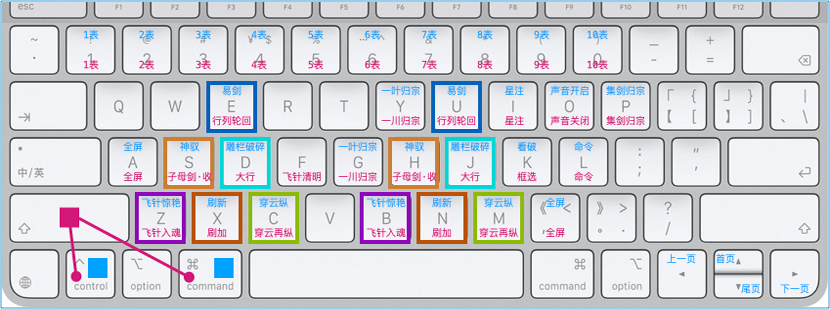
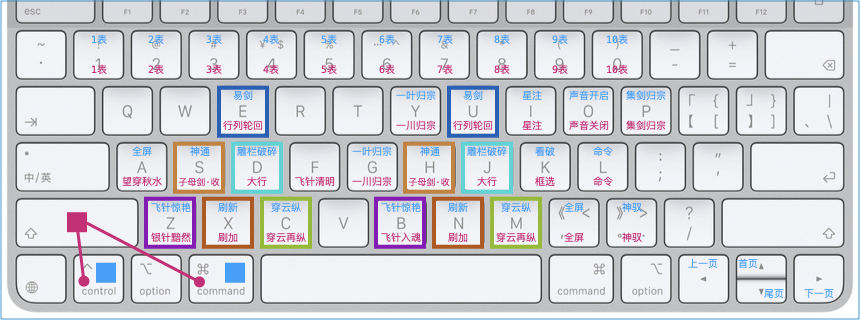
20250819 针法加强，战法成熟 (#6)

diff --git a/root/wugong/shenyiduoxinzhao/BEST.md b/root/wugong/shenyiduoxinzhao/BEST.md
@@ -67,59 +67,61 @@
 
 神意夺心爪=SEDXZ、神意夺心超爪=SEDXCZ，主键区的几个键，经常用的
 
-区域  |招式      |说明       |快捷键           |这样记                |备用键
-:----:|:---------|:----------|:----------------|:---------------------|:--------:
-神 S  |神驭      |神驭开启   |🎹 + S          |神驭的神 Shén S       |`S => H`
-神 S  |子剑东流  |子母剑·收  |🎹 + Shift + S  |收剑的收 Shōu S       |`S => H`
-意 E  |基本功    |易剑       |🎹 + E          |Excel的易 E           |`E => U`
-意 E  |基本功    |行列轮回   |🎹 + Shift + E  |Excel的易 E           |`E => U`
-夺 D  |雕栏破碎  |           |🎹 + D          |雕栏的雕 Diāo D       |`D => J`
-夺 D  |基本功    |大行       |🎹 + Shift + D  |大行的大 Dà D         |`D => J`
-心 X  |基本功    |刷新       |🎹 + X          |X 就像台词「叉出去」  |`X => N`
-心 X  |基本功    |刷加       |🎹 + Shift + X  |X 叉掉数据=刷掉数据   |`X => N`
-超 C  |穿云纵    |           |🎹 + C          |穿云的穿 Chuān C      |`C => M`
-超 C  |穿云再纵  |           |🎹 + Shift + C  |穿云的穿 Chuān C      |`C => M`
-爪 Z  |飞针惊艳  |           |🎹 + Z          |飞针的针 Zhēn Z       |`Z => B`
-爪 Z  |飞针入魂  |           |🎹 + Shift + Z  |飞针的针 Zhēn Z       |`Z => B`
-编外  |基本功    |全屏       |🎹 + A          |All A                 |`A => ,`
-编外  |基本功    |全屏       |🎹 + Shift + A  |All A                 |`A => ,`
-编外  |飞针清明  |           |🎹 + Shift + F  |飞针的飞 Fēi F        |
-编外  |一叶归宗  |           |🎹 + G          |归宗的归 Guī G        |`G => Y`
-编外  |一川归宗  |           |🎹 + Shift + G  |归宗的归 Guī G        |`G => Y`
-编外  |基本功    |星注       |🎹 + I          |i=星号注释            |
-编外  |基本功    |星注       |🎹 + Shift + I  |i=星号注释            |
-编外  |基本功    |看破       |🎹 + K          |看破的看 Kàn K        |
-编外  |基本功    |框选       |🎹 + Shift + K  |框选的框 Kuang K      |
-编外  |基本功    |声音开启   |🎹 + O          |🤫嘘，嘴形是O        |
-编外  |基本功    |声音关闭   |🎹 + Shift + O  |🤫嘘，嘴形是O        |
-编外  |基本功    |命令       |🎹 + L          |命令的令 Lìng L       |
-编外  |基本功    |命令       |🎹 + Shift + L  |命令的令 Lìng L       |
-编外  |集剑归宗  |           |🎹 + P          |                      |
-编外  |集剑归宗  |           |🎹 + Shift + P  |                      |
-编外  |基本功    |上一页     |🎹 + ⇦         |                      |
-编外  |基本功    |下一页     |🎹 + ⇨         |                      |
-编外  |基本功    |首页       |🎹 + ⇧         |                      |
-编外  |基本功    |尾页       |🎹 + ⇩         |                      |
-编外  |基本功    |1表        |🎹 + 1          |1表                   |
-编外  |基本功    |1表        |🎹 + Shift + 1  |1表                   |
-编外  |基本功    |2表        |🎹 + 2          |2表                   |
-编外  |基本功    |2表        |🎹 + Shift + 2  |2表                   |
-编外  |基本功    |3表        |🎹 + 3          |3表                   |
-编外  |基本功    |3表        |🎹 + Shift + 3  |3表                   |
-编外  |基本功    |4表        |🎹 + 4          |4表                   |
-编外  |基本功    |4表        |🎹 + Shift + 4  |4表                   |
-编外  |基本功    |5表        |🎹 + 5          |5表                   |
-编外  |基本功    |5表        |🎹 + Shift + 5  |5表                   |
-编外  |基本功    |6表        |🎹 + 6          |6表                   |
-编外  |基本功    |6表        |🎹 + Shift + 6  |6表                   |
-编外  |基本功    |7表        |🎹 + 7          |7表                   |
-编外  |基本功    |7表        |🎹 + Shift + 7  |7表                   |
-编外  |基本功    |8表        |🎹 + 8          |8表                   |
-编外  |基本功    |8表        |🎹 + Shift + 8  |8表                   |
-编外  |基本功    |9表        |🎹 + 9          |9表                   |
-编外  |基本功    |9表        |🎹 + Shift + 9  |9表                   |
-编外  |基本功    |10表       |🎹 + 0          |10表                  |
-编外  |基本功    |10表       |🎹 + Shift + 0  |10表                  |
+区域  |招式      |说明                  |快捷键           |这样记                |备用键
+:----:|:---------|:---------------------|:----------------|:---------------------|:--------:
+神 S  |神通      |弹指神通（飞针宝典）  |🎹 + S          |神通的神 Shén S       |`S => H`
+神 S  |子剑东流  |子母剑·收（莫言）     |🎹 + Shift + S  |收剑的收 Shōu S       |`S => H`
+意 E  |易剑      |基本功                |🎹 + E          |Excel的易 E           |`E => U`
+意 E  |行列轮回  |基本功                |🎹 + Shift + E  |Excel的易 E           |`E => U`
+夺 D  |雕栏破碎  |莫言                  |🎹 + D          |雕栏的雕 Diāo D       |`D => J`
+夺 D  |大行      |基本功                |🎹 + Shift + D  |大行的大 Dà D         |`D => J`
+心 X  |刷新      |基本功                |🎹 + X          |X 就像台词「叉出去」  |`X => N`
+心 X  |刷加      |基本功                |🎹 + Shift + X  |X 叉掉数据=刷掉数据   |`X => N`
+超 C  |穿云纵    |莫言                  |🎹 + C          |穿云的穿 Chuān C      |`C => M`
+超 C  |穿云再纵  |莫言                  |🎹 + Shift + C  |穿云的穿 Chuān C      |`C => M`
+爪 Z  |飞针惊艳  |飞针宝典              |🎹 + Z          |飞针的针 Zhēn Z       |`Z => B`
+爪 Z  |银针黯然  |飞针宝典              |🎹 + Shift + Z  |飞针的针 Zhēn Z       |`Z => B`
+编外  |全屏      |基本功                |🎹 + A          |All A                 |`A => ,`
+编外  |望穿秋水  |飞针宝典              |🎹 + Shift + A  |All A                 |`A => ,`
+编外  |飞针清明  |飞针宝典              |🎹 + Shift + F  |飞针的飞 Fēi F        |不常用
+编外  |一叶归宗  |百川归宗              |🎹 + G          |归宗的归 Guī G        |`G => Y`
+编外  |一川归宗  |百川归宗              |🎹 + Shift + G  |归宗的归 Guī G        |`G => Y`
+编外  |星注      |基本功                |🎹 + I          |i=星号注释            |不常用
+编外  |星注      |基本功                |🎹 + Shift + I  |i=星号注释            |不常用
+编外  |看破      |基本功                |🎹 + K          |看破的看 Kàn K        |不常用
+编外  |框选      |基本功                |🎹 + Shift + K  |框选的框 Kuang K      |不常用
+编外  |声音开启  |基本功                |🎹 + O          |🤫嘘，嘴形是O        |不常用
+编外  |声音关闭  |基本功                |🎹 + Shift + O  |🤫嘘，嘴形是O        |不常用
+编外  |命令      |基本功                |🎹 + L          |命令的令 Lìng L       |不常用
+编外  |命令      |基本功                |🎹 + Shift + L  |命令的令 Lìng L       |不常用
+编外  |神驭      |                      |🎹 + .          |                      |不常用
+编外  |神驭      |                      |🎹 + Shift + .  |                      |不常用
+编外  |集剑归宗  |百川归宗              |🎹 + P          |                      |不常用
+编外  |集剑归宗  |百川归宗              |🎹 + Shift + P  |                      |不常用
+编外  |上一页    |基本功                |🎹 + ⇦         |                      |
+编外  |下一页    |基本功                |🎹 + ⇨         |                      |
+编外  |首页      |基本功                |🎹 + ⇧         |                      |
+编外  |尾页      |基本功                |🎹 + ⇩         |                      |
+编外  |1表       |基本功                |🎹 + 1          |1表                   |
+编外  |1表       |基本功                |🎹 + Shift + 1  |1表                   |
+编外  |2表       |基本功                |🎹 + 2          |2表                   |
+编外  |2表       |基本功                |🎹 + Shift + 2  |2表                   |
+编外  |3表       |基本功                |🎹 + 3          |3表                   |
+编外  |3表       |基本功                |🎹 + Shift + 3  |3表                   |
+编外  |4表       |基本功                |🎹 + 4          |4表                   |不常用
+编外  |4表       |基本功                |🎹 + Shift + 4  |4表                   |不常用
+编外  |5表       |基本功                |🎹 + 5          |5表                   |不常用
+编外  |5表       |基本功                |🎹 + Shift + 5  |5表                   |不常用
+编外  |6表       |基本功                |🎹 + 6          |6表                   |不常用
+编外  |6表       |基本功                |🎹 + Shift + 6  |6表                   |不常用
+编外  |7表       |基本功                |🎹 + 7          |7表                   |不常用
+编外  |7表       |基本功                |🎹 + Shift + 7  |7表                   |不常用
+编外  |8表       |基本功                |🎹 + 8          |8表                   |不常用
+编外  |8表       |基本功                |🎹 + Shift + 8  |8表                   |不常用
+编外  |9表       |基本功                |🎹 + 9          |9表                   |不常用
+编外  |9表       |基本功                |🎹 + Shift + 9  |9表                   |不常用
+编外  |10表      |基本功                |🎹 + 0          |10表                  |不常用
+编外  |10表      |基本功                |🎹 + Shift + 0  |10表                  |不常用
 
 > 🎹 Windows 代表 Control， macOS 代表 Control 或 Command
 
@@ -147,12 +149,12 @@
     超级厉害，所以：神意夺心超爪
         神意夺心超爪=SEDXCZ
         🎹+键、🎹+Shift+键
-            S=神(Shén)驭、字母剑·收(Shōu)
+            S=神(Shén)通、字母剑·收(Shōu)
             E=Excel，易剑、行列轮回
             D=雕(Diāo)栏破碎、大(Dà)行
             X=新(Xīn)，刷新、刷加
             C=穿(Chuān)云纵、穿(Chuān)云再纵
-            Z=针(Zhēn)，飞针惊艳、飞针入魂
+            Z=针(Zhēn)，飞针惊艳、银针黯然
 
 记不住也没关系，随便按按试一试，反正你也按不坏，习惯了就记住了
 

diff --git a/root/help.md b/root/help.md
@@ -143,22 +143,23 @@ AI->东方神功： <br/>
 决定采用「武侠/武功」的方式去设计，那么设计灵感肯定是从作者自己看过的武侠中去找 <br/>
 我用闲暇时间，把我设计的这些武功，都巧妙的贯穿起来，也编了个小说：[《东方儿女情》][剧情]
 
-麦修行看过的武侠             |灵感来源      |发散思维  |麦修行新的武功设计
-:----------------------------|:-------------|:---------|:---------------------------
-《笑傲江湖II东方不败》 1992  |独孤九剑      |高维      |[九剑][]（[扶摇九剑][]）
-《笑傲江湖II东方不败》 1992  |葵花宝典      |上色      |[飞针][]（[飞针宝典][]）
-《新龙门客栈》 1992          |营救行动      |灵动      |[莫言][]
-《笑傲江湖II东方不败》 1992  |教主轻功      |驾驭      |[神驭][]
-《笑傲江湖II东方不败》 1992  |吸星大法      |获得      |[归宗][]（[百川归宗][]）
-《天龙八部》 1997            |凌波微步      |万行分页  |[万行][]（[御风万行][]）
-《天龙八部》 1997            |拈花指        |智能分页  |[幻叶][]（[幻叶指][]）
-《笑傲江湖》 1996            |黑木崖的电梯  |搜素约定  |[密语][]（[陈桥密语][]）
-《天龙八部》 1997            |六脉神剑      |颜色标签  |[六彩][]（[六彩神剑][]）
-《射雕英雄传》 1983          |郭靖射雕      |精致表单  |[箭术][]（[林家箭术][]）
-《射雕英雄传》 1983          |九阴白骨爪    |快捷键    |[神意][]（[神意夺心爪][]）
-《笑傲江湖II东方不败》 1992  |服部千军      |数据历史  |[千依][]（[千依子剑][]）
-《六指琴魔》 1994            |八音穿心      |声音      |[八音][]（[八音圣心][]）
-《太极张三丰》 1993          |参悟太极      |主题      |[道意][]（[道意璀粲][]）
+麦修行看过的武侠             |灵感来源              |发散思维  |麦修行新的武功设计
+:----------------------------|:---------------------|:---------|:---------------------------
+《笑傲江湖II东方不败》 1992  |独孤九剑              |高维      |[九剑][]（[扶摇九剑][]）
+《笑傲江湖II东方不败》 1992  |葵花宝典              |上色      |[飞针][]（[飞针宝典][]）
+《神雕侠侣》 1995            |冰魄银针、黯然销魂掌  |上色      |[飞针][]（[飞针宝典][]）
+《新龙门客栈》 1992          |营救行动              |灵动      |[莫言][]
+《笑傲江湖II东方不败》 1992  |教主轻功              |驾驭      |[神驭][]
+《笑傲江湖II东方不败》 1992  |吸星大法              |获得      |[归宗][]（[百川归宗][]）
+《天龙八部》 1997            |凌波微步              |万行分页  |[万行][]（[御风万行][]）
+《天龙八部》 1997            |拈花指                |智能分页  |[幻叶][]（[幻叶指][]）
+《笑傲江湖》 1996            |黑木崖的电梯          |搜素约定  |[密语][]（[陈桥密语][]）
+《天龙八部》 1997            |六脉神剑              |颜色标签  |[六彩][]（[六彩神剑][]）
+《射雕英雄传》 1983          |郭靖射雕              |精致表单  |[箭术][]（[林家箭术][]）
+《射雕英雄传》 1983          |九阴白骨爪            |快捷键    |[神意][]（[神意夺心爪][]）
+《笑傲江湖II东方不败》 1992  |服部千军              |数据历史  |[千依][]（[千依子剑][]）
+《六指琴魔》 1994            |八音穿心              |声音      |[八音][]（[八音圣心][]）
+《太极张三丰》 1993          |参悟太极              |主题      |[道意][]（[道意璀粲][]）
 
 [九剑]:             ./wugong/fuyaojiujian/BEST.md
 [扶摇九剑]:         ./wugong/fuyaojiujian/BEST.md

diff --git a/root/wugong/feizhenbaodian/BEST.md b/root/wugong/feizhenbaodian/BEST.md
@@ -64,11 +64,19 @@
 
 ## 飞针惊艳
 
-![](./static/02-feizhenjingyan.gif "认证机构信息管理系统 飞针清明")
+![](./static/02-feizhenjingyan.gif "认证机构信息管理系统 飞针惊艳")
 
-## 飞针入魂
+## 银针黯然
 
-![](./static/03-feizhenruhun.gif "认证机构信息管理系统 飞针清明")
+待补充
+
+## 望穿秋水
+
+待补充
+
+## 弹指神通
+
+待补充
 
 ***
 
@@ -93,32 +101,35 @@
 
 ## 术语对照
 
-武学术语  |系统术语  |说明
-:---------|:---------|:-----------------------------------
-飞针      |上色      |
-飞针清明  |层彩      |层次分明之彩
-飞针惊艳  |格彩      |单元格之彩
-飞针入魂  |重彩      |重点显示之彩（弱化次要、突出重点）
+武学术语  |系统术语    |说明
+:---------|:-----------|:--------------------------------------------
+飞针      |上色        |
+飞针清明  |层次        |层次分明
+飞针惊艳  |格彩        |单元格之彩
+银针黯然  |次要黯然    |单元格之黯（弱化次要、突出重点）
+望穿秋水  |看清黯然    |双重辅助（银针黯然的辅助 + 弹指神通的辅助）
+弹指神通  |未变改黯然  |未变改之黯（万般变幻、心中有数）
 
 ## 作者笔记
 
 ```text
-为什么简称：飞针
-    因为多数情况用的都是：「飞针惊艳」这一招
-    这一招的核心是凸显一些单元格（点）的颜色
-    感觉就像用针去标记这些单元格（点）的颜色
-
-教主附身，会用飞针：
-    飞针清明（层次上色、头脑清晰，默认开启，看清高维层次）
+武侠角色附身，会用飞针：
+    飞针清明（层次分明）
         随便打出两针、探探路数...
-    飞针惊艳（主要上色、彩色数据，默认开启，看到第二信息）
-        蓄意打出飞针、一般攻击...
-    飞针入魂（次要上色、突出重点，默认关闭、弱化次要、突出重点）
-        阴毒打出飞针、要人性命...
+    飞针惊艳（单元格之彩）
+        蓄力打出飞针、普通攻击...
+    银针黯然（单元格之黯）
+        打出带毒银针、要人性命...
+    望穿秋水（双重辅助）
+        通过飞针打开东西、想要看清前方事物...
+    弹指神通（未变改之黯）
+        通过弹指射出飞针、弹指之间即得神通...
 ```
 
 招式      |首拼音首字母     |快捷键（神意夺心爪）
 :---------|:----------------|:-------------------------------------------
 飞针清明  |飞针的飞 Fēi F   |Control + Shift + F 、 Command + Shift + F
 飞针惊艳  |飞针的针 Zhēn Z  |Control + Z 、 Command + Z
-飞针入魂  |飞针的针 Zhēn Z  |Control + Shift + Z 、 Command + Shift + Z
+银针黯然  |银针的针 Zhēn Z  |Control + Shift + Z 、 Command + Shift + Z
+望穿秋水  |                 |Control + Shift + A 、 Command + Shift + A
+弹指神通  |神通的神 Shén S  |Control + S 、 Command + S

diff --git a/root/zhanfa/dongfangzhanfa/BEST.md b/root/zhanfa/dongfangzhanfa/BEST.md
@@ -1,0 +1,53 @@
+![](../../static/ca3w.png "ca3w 认证机构管理系统")
+
+以东方文化为底蕴缔造轻奢认证机构管理系统 <br/>
+适配高网速、符合时代，高维、上色、灵动 <br/>
+主理人：麦修行（大江东去，唯我修行）
+
+[麦修行][]&nbsp;&nbsp;&nbsp;&nbsp;[AI->东方神功][东方神功]&nbsp;[剧情][]&nbsp;[人物][]&nbsp;&nbsp;&nbsp;&nbsp;[原理][]&nbsp;&nbsp;[规则][]&nbsp;&nbsp;[价格][]&nbsp;&nbsp;[购买][]&nbsp;&nbsp;&nbsp;&nbsp;[Excel-Email][]&nbsp;[大模型-符文][]&nbsp;&nbsp;&nbsp;&nbsp;[发展历程][]
+
+[麦修行]: https://github.com/ca3w/BEST
+[东方神功]: https://github.com/ca3w/ai-dongfangshengong
+[剧情]: https://github.com/ca3w/dongfangernvqing/blob/main/root/BEST.md
+[人物]: https://github.com/ca3w/dongfangernvqing/blob/main/root/renwu.md
+[原理]: https://github.com/ca3w/key
+[规则]: https://github.com/ca3w/rule
+[价格]: https://github.com/ca3w/pricing
+[购买]: https://github.com/ca3w/howtobuy
+[Excel-Email]: https://github.com/ca3w/excel-email
+[大模型-符文]: https://github.com/ca3w/largemodel-rune
+[发展历程]: https://github.com/ca3w/development
+
+***
+
+[神功][]：&nbsp;[九剑][]&nbsp;&nbsp;&nbsp;[飞针][]&nbsp;&nbsp;&nbsp;[莫言][]&nbsp;&nbsp;&nbsp;[神驭][]&nbsp;&nbsp;&nbsp;[归宗][]&nbsp;&nbsp;&nbsp;[万行][]&nbsp;&nbsp;&nbsp;[幻叶][]&nbsp;&nbsp;&nbsp;[密语][]&nbsp;&nbsp;&nbsp;[六彩][]&nbsp;&nbsp;&nbsp;[箭术][]&nbsp;&nbsp;&nbsp;[神意][]&nbsp;&nbsp;&nbsp;[千依][]&nbsp;&nbsp;&nbsp;[八音][]&nbsp;&nbsp;&nbsp;[道意][]&nbsp;&nbsp;&nbsp;|&nbsp;&nbsp;&nbsp;[兵法][]：&nbsp;[关中][]&nbsp;&nbsp;&nbsp;[治粟][]&nbsp;&nbsp;&nbsp;|&nbsp;&nbsp;&nbsp;[阵法][]：&nbsp;[清上][]
+
+[神功]: https://github.com/ca3w/ai-dongfangshengong
+
+[九剑]: ../../wugong/fuyaojiujian/BEST.md
+[飞针]: ../../wugong/feizhenbaodian/BEST.md
+[莫言]: ../../wugong/moyan/BEST.md
+[神驭]: ../../wugong/shenyu/BEST.md
+[归宗]: ../../wugong/baichuanguizong/BEST.md
+[万行]: ../../wugong/yufengwanxing/BEST.md
+[幻叶]: ../../wugong/huanyezhi/BEST.md
+[密语]: ../../wugong/chenqiaomiyu/BEST.md
+[六彩]: ../../wugong/liucaishenjian/BEST.md
+[箭术]: ../../wugong/linjiajianshu/BEST.md
+[神意]: ../../wugong/shenyiduoxinzhao/BEST.md
+[千依]: ../../wugong/qianyizijian/BEST.md
+[八音]: ../../wugong/bayinshengxin/BEST.md
+[道意]: ../../wugong/daoyicuican/BEST.md
+
+[兵法]: https://github.com/ca3w/ai-dongfangshengong#兵法目录
+
+[关中]: ../../bingfa/guanzhongzhanfa/BEST.md
+[治粟]: ../../bingfa/zhisubingfa/BEST.md
+
+[阵法]: https://github.com/ca3w/ai-dongfangshengong#阵法目录
+
+[清上]: ../../zhenfa/qingshangbeidouzhen/BEST.md
+
+# 东方战法
+
+待补充

diff --git a/README.md b/README.md
@@ -39,7 +39,7 @@
 分类        |武功              |五绝          |招式                                                      |点评&nbsp;&nbsp;&nbsp;&nbsp;&nbsp;&nbsp;&nbsp;&nbsp;&nbsp;&nbsp;&nbsp;&nbsp;&nbsp;&nbsp;&nbsp;&nbsp;&nbsp;&nbsp;&nbsp;&nbsp;
 -----------:|:-----------------|:-------------|:---------------------------------------------------------|:----------------
 剑法        |[扶摇九剑][]      |[南扶][]      |[纵剑式][]、[横剑式][]、[落剑式][]、[荡剑式][]            |九剑高维 · 美好
-飞针        |[飞针宝典][]      |[西花][]      |[飞针清明][]、[飞针惊艳][]、[飞针入魂][]                  |飞针上色 · 惊艳
+飞针        |[飞针宝典][]      |[西花][]      |[飞针惊艳][]、[银针黯然][]、[弹指神通][]                  |飞针上色 · 惊艳
 剑法        |[莫言][]          |[东流][]      |[子剑东流][]、[雕栏破碎][]、[穿云纵][]、[穿云再纵][]      |莫言灵动 · 酷炫
 幻术        |[神驭][]          |[北神][]      |[虚界][]                                                  |神驭虚界 · 霸气
 内功        |[百川归宗][]      |[中禅师][]    |[一叶归宗][]、[一川归宗][]、[集剑归宗][]、[无相归宗][]    |百川归宗 · 神奇
@@ -61,9 +61,9 @@
 [南扶]:                 https://github.com/ca3w/dongfangernvqing/blob/main/root/renwu.md#南扶
 
 [飞针宝典]:             ./root/wugong/feizhenbaodian/BEST.md
-[飞针清明]:             ./root/wugong/feizhenbaodian/BEST.md#飞针清明
 [飞针惊艳]:             ./root/wugong/feizhenbaodian/BEST.md#飞针惊艳
-[飞针入魂]:             ./root/wugong/feizhenbaodian/BEST.md#飞针入魂
+[银针黯然]:             ./root/wugong/feizhenbaodian/BEST.md#银针黯然
+[弹指神通]:             ./root/wugong/feizhenbaodian/BEST.md#弹指神通
 [西花]:                 https://github.com/ca3w/dongfangernvqing/blob/main/root/renwu.md#西花
 
 [莫言]:                 ./root/wugong/moyan/BEST.md

diff --git a/root/wugong/bayinshengxin/BEST.md b/root/wugong/bayinshengxin/BEST.md
@@ -65,7 +65,9 @@
 各种关闭、各种退出  |拔掉气塞的声音
 飞针清明            |随手打出两针的声音
 飞针惊艳            |飞针击中屏幕的声音
-飞针入魂            |飞针击穿屏幕的声音
+银针黯然            |银针击穿屏幕的声音
+望穿秋水            |飞针击走瓶瓶罐罐的声音（温柔）
+弹指神通            |弹指击破空气射针的声音（内力深厚）
 穿云纵              |身法破风声 · 嗖的声音（嗖、嗖一下子，蹿上天了）
 穿云再纵            |身法破风声 · 噌的声音（噌、噌一下子，蹿出去了）
 一叶归宗            |吸人内力、就吸一点的声音

diff --git a/root/wugong/shenyu/BEST.md b/root/wugong/shenyu/BEST.md
@@ -106,6 +106,6 @@
     虚界是神驭附属，神驭是主，虚界是附属的
 ```
 
-招式  |首拼音首字母     |快捷键（神意夺心爪）
-:-----|:----------------|:---------------------------
-神驭  |神驭的神 Shén S  |Control + S 、 Command + S
+招式  |快捷键（神意夺心爪）
+:-----|:-------------------------------------------------------------------------
+神驭  |Control + . 、 Command + . 、 Control + Shift + . 、 Command + Shift + .

diff --git a/root/wugong/baichuanguizong/BEST.md b/root/wugong/baichuanguizong/BEST.md
@@ -87,7 +87,7 @@
 
 没有任何表相 任何文表归你
 > 无相归宗：无相就是没有实相（佛教术语）的意思，什么都不用你做，（页/表格/多个表格）归使用者（宗） <br/>
-> 无论你对线上表格怎么操作，这个线上表格都能1:1变成Excel表格
+> 每天凌晨系统自动把全部重要表，发送到你设定的邮箱里（高维上色的Excel）
 
 ***
 
